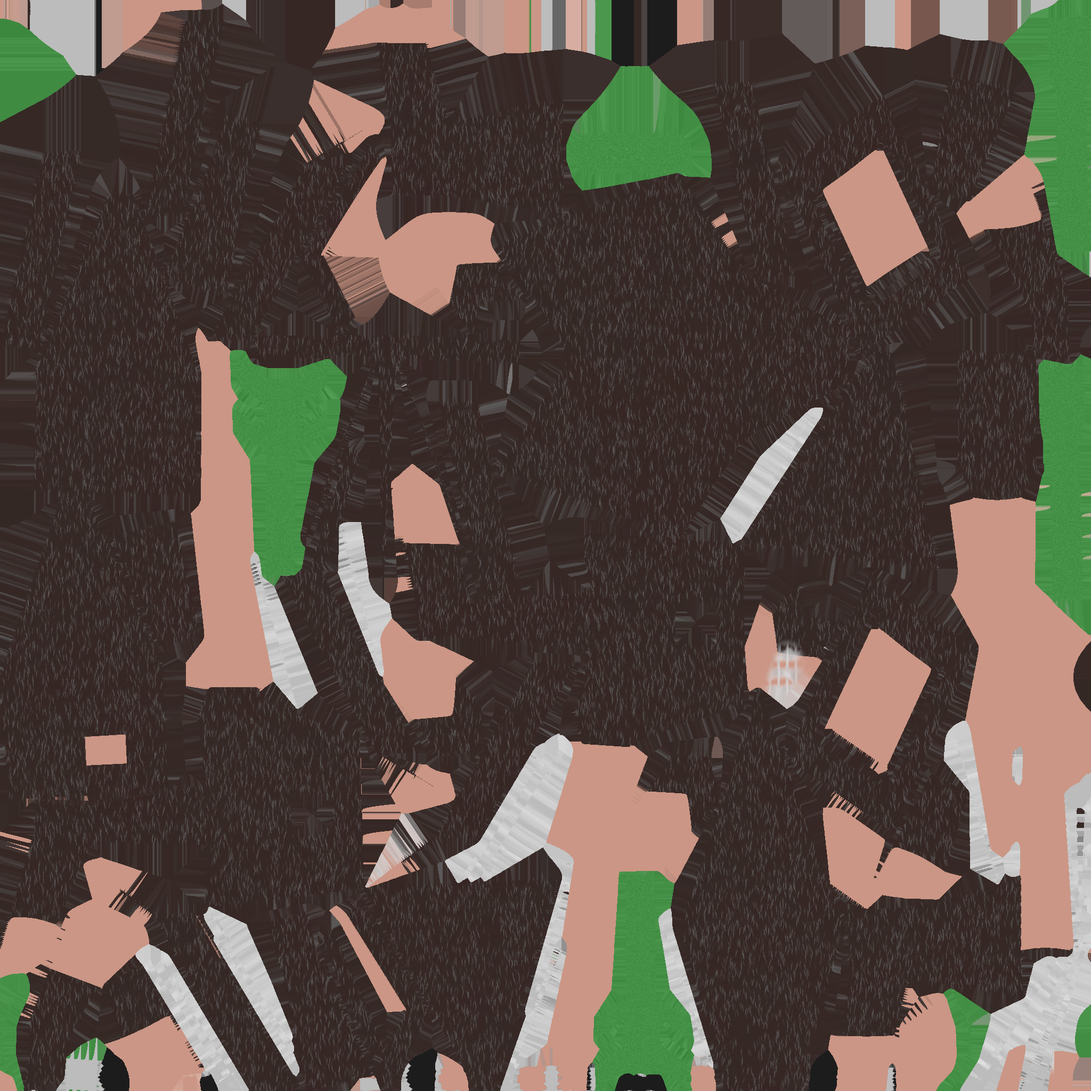
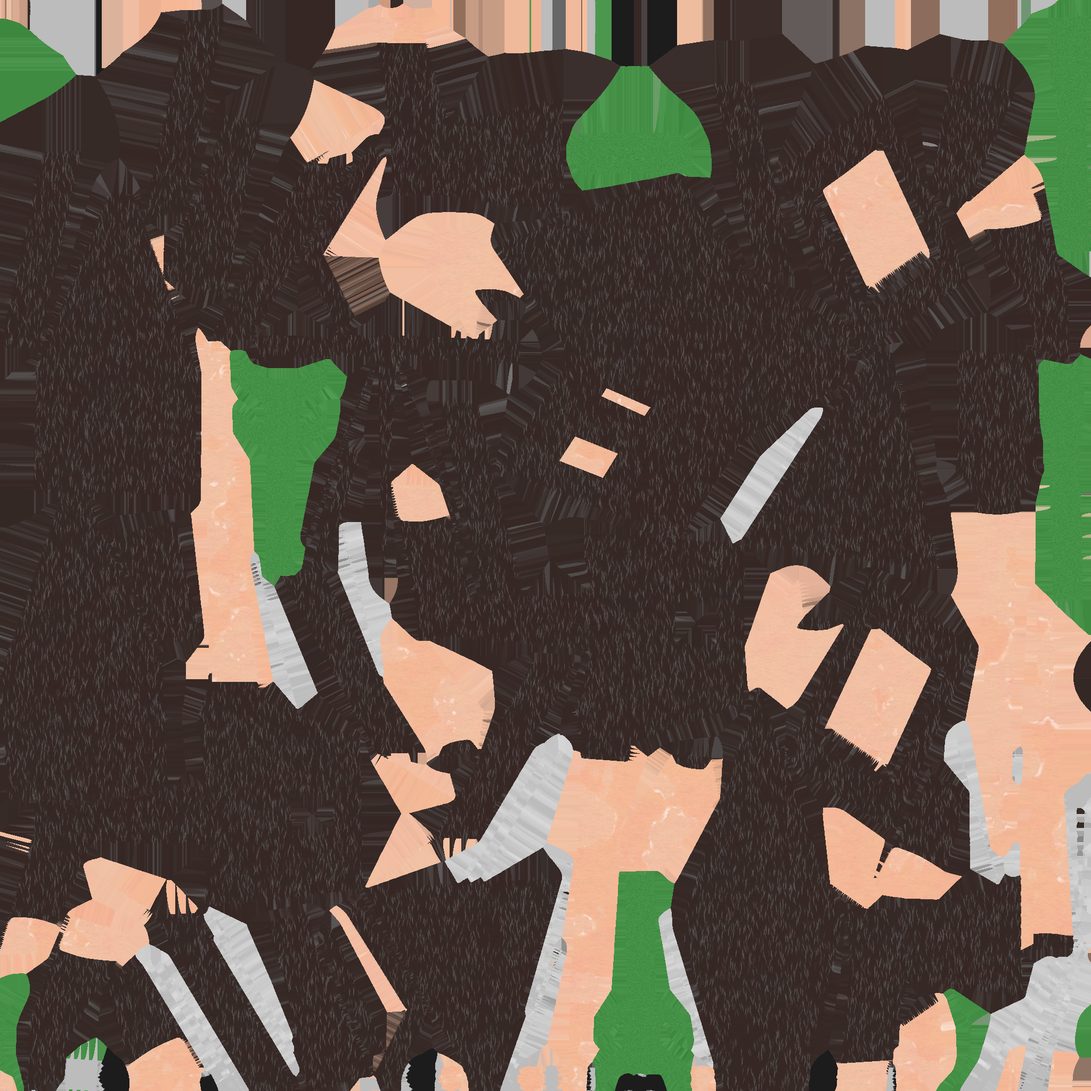
Actualizacion de  la textura de los ratones
Se actualizo las texturas y en el podio

diff --git a/Assets/Ratones/Scripts/Juego/PlayerView.cs b/Assets/Ratones/Scripts/Juego/PlayerView.cs
@@ -30,7 +30,7 @@ namespace Ratones.Basic
         Spinner key, whiskers;
         const float HopTime = .35f;
 
-        // Gira una pieza del modelo alrededor de un eje que pasa por su centro, partiendo de su pose original.
+        // Gira una pieza del modelo alrededor de un eje que pasa por el pivote dado, partiendo de su pose original.
         sealed class Spinner
         {
             readonly Transform part;
@@ -60,16 +60,37 @@ namespace Ratones.Basic
                 if (r.name == KeyName) keyPart = r; else if (r.name == WhiskersName) whiskerPart = r;
                 else if (body == null || r.bounds.size.sqrMagnitude > body.bounds.size.sqrMagnitude) body = r;
             }
-            // La llave gira sobre su eje, que sale del cuerpo hacia atrás (horizontal respecto al ratón).
-            if (keyPart != null && body != null)
+            // La llave gira sobre su lado más largo (el que sale del cuerpo), con el pivote en la punta pegada al cuerpo.
+            if (keyPart != null && body != null) key = KeySpinner(keyPart, body);
+            // Los bigotes se mueven de lado a lado (eje vertical del ratón).
+            if (whiskerPart != null) whiskers = new Spinner(whiskerPart.transform, whiskerPart.bounds.center, Visual.up);
+        }
+        Spinner KeySpinner(Renderer keyPart, Renderer body)
+        {
+            Transform part = keyPart.transform;
+            MeshFilter filter = keyPart.GetComponent<MeshFilter>();
+            if (filter == null || filter.sharedMesh == null)
             {
                 Vector3 outward = Visual.InverseTransformDirection(keyPart.bounds.center - body.bounds.center);
                 outward.y = 0;
                 if (outward.sqrMagnitude < 1e-6f) outward = Vector3.back;
-                key = new Spinner(keyPart.transform, keyPart.bounds.center, Visual.TransformDirection(outward));
+                return new Spinner(part, keyPart.bounds.center, Visual.TransformDirection(outward));
             }
-            // Los bigotes se mueven de lado a lado (eje vertical del ratón).
-            if (whiskerPart != null) whiskers = new Spinner(whiskerPart.transform, whiskerPart.bounds.center, Visual.up);
+            // Eje local más largo de la malla, medido ya escalado en el mundo.
+            Bounds mesh = filter.sharedMesh.bounds;
+            Vector3 along = Vector3.zero; float longest = -1;
+            for (int i = 0; i < 3; i++)
+            {
+                Vector3 local = Vector3.zero; local[i] = mesh.size[i];
+                float length = part.TransformVector(local).magnitude;
+                if (length > longest) { longest = length; along = Vector3.zero; along[i] = mesh.extents[i]; }
+            }
+            Vector3 a = part.TransformPoint(mesh.center - along), b = part.TransformPoint(mesh.center + along);
+            // La punta es el extremo metido en el cuerpo (el más cercano a su centro).
+            Vector3 center = body.bounds.center;
+            bool aInside = (a - center).sqrMagnitude <= (b - center).sqrMagnitude;
+            Vector3 tip = aInside ? a : b, end = aInside ? b : a;
+            return new Spinner(part, tip, end - tip);
         }
         // Solo en partida: la vista de Personalizar usa el mismo prefab sin nombre.
         void SetName(string text, Color color)

diff --git a/Assets/Ratones/Editor/UITools.cs b/Assets/Ratones/Editor/UITools.cs
@@ -691,6 +691,9 @@ namespace Ratones.Basic.Editor
             Layout(Decoration("Podio", "PODIO/PODIO", parent, index), Center, new Vector2(0, -105), new Vector2(661, 293));
             // Centro y altura de cada escalón sobre la imagen del podio (orden lógico 1, 2, 3).
             Vector2[] steps = { new Vector2(0, 36), new Vector2(-214, -46), new Vector2(218, -80) };
+            var prefab = AssetDatabase.LoadAssetAtPath<PlayerView>(PlayerPrefab);
+            if (prefab == null) Warn("No se encontró " + PlayerPrefab + "; el podio queda sin ratones 3D.");
+            var previews = new MousePreview[podiums.Length];
             for (int i = 0; i < podiums.Length && i < steps.Length; i++)
             {
                 GameObject podium = podiums[i]; if (podium == null) continue;
@@ -703,10 +706,35 @@ namespace Ratones.Basic.Editor
                     if (aura.transform.parent != podium.transform) Undo.SetTransformParent(aura.transform, podium.transform, "Aura");
                     Layout(aura.transform, BottomCenter, new Vector2(0, 28), new Vector2(48, 48));
                 }
-                Stack(At(ui.Scores, i), podium.transform, 62, thin, 18);
-                Stack(At(ui.Names, i), podium.transform, 90, regular, 22);
+                // Con ratón 3D (parado sobre el escalón) los textos suben por encima de él.
+                bool mouse = prefab != null && (previews[i] = PodiumPreview(podium.transform, prefab)) != null;
+                Stack(At(ui.Scores, i), podium.transform, mouse ? 106 : 62, thin, 18);
+                Stack(At(ui.Names, i), podium.transform, mouse ? 132 : 90, regular, 22);
                 if (At(ui.Places, i) != null) Hide(ui.Places[i].gameObject);
             }
+            Undo.RecordObject(ui, "Ratones del podio"); ui.Previews = previews;
+        }
+        static MousePreview PodiumPreview(Transform podium, PlayerView prefab)
+        {
+            Transform existing = podium.Find("VistaRaton");
+            GameObject go;
+            if (existing != null) go = existing.gameObject;
+            else
+            {
+                go = new GameObject("VistaRaton", typeof(RectTransform), typeof(RawImage), typeof(MousePreview));
+                Undo.RegisterCreatedObjectUndo(go, "Crear ratón del podio");
+                go.transform.SetParent(podium, false);
+            }
+            Layout(go.transform, BottomCenter, new Vector2(0, -4), new Vector2(110, 100), BottomCenter);
+            RawImage raw = go.GetComponent<RawImage>();
+            Undo.RecordObject(raw, "Ratón del podio"); raw.texture = null; raw.color = Color.clear; raw.raycastTarget = false;
+            MousePreview preview = go.GetComponent<MousePreview>();
+            Undo.RecordObject(preview, "Ratón del podio");
+            preview.Prefab = prefab; preview.Target = raw; preview.Resolution = 256;
+            // Mismo encuadre que en el lobby: el ratón completo con su aura debajo.
+            preview.CameraPosition = new Vector3(0, 2.6f, 4.6f); preview.LookHeight = .7f;
+            Show(go);
+            return preview;
         }
         static void Stack(Text text, Transform podium, float y, Font font, int size)
         {

diff --git a/Assets/Ratones/Scripts/Escenas/ResultsUI.cs b/Assets/Ratones/Scripts/Escenas/ResultsUI.cs
@@ -14,6 +14,8 @@ namespace Ratones.Basic
         public Text Fourth;
         public GameObject FourthMedal;
         public Sprite[] AuraSprites;
+        // Ratón 3D girando sobre cada escalón (mismo orden que Podiums); ya trae su aura y su llave.
+        public MousePreview[] Previews;
         void Start()
         {
             Session session = Session.Ensure(); State state = session.State;
@@ -29,6 +31,9 @@ namespace Ratones.Basic
                 bool tie = players.Count(q => q.Score == p.Score) > 1;
                 Names[i].text = p.Name; Scores[i].text = p.Score + " puntos";
                 Places[i].text = place + ".º" + (tie ? " · empate" : "");
+                MousePreview preview = Previews != null && i < Previews.Length ? Previews[i] : null;
+                if (preview != null) { preview.gameObject.SetActive(true); preview.Show(p.KeyColor, p.AuraColor); }
+                Colors[i].enabled = preview == null;
                 if (!Palette.SetAura(Colors[i], AuraSprites, p.AuraColor)) Colors[i].color = Palette.Colors[p.AuraColor];
             }
             if (players.Count == 4)
